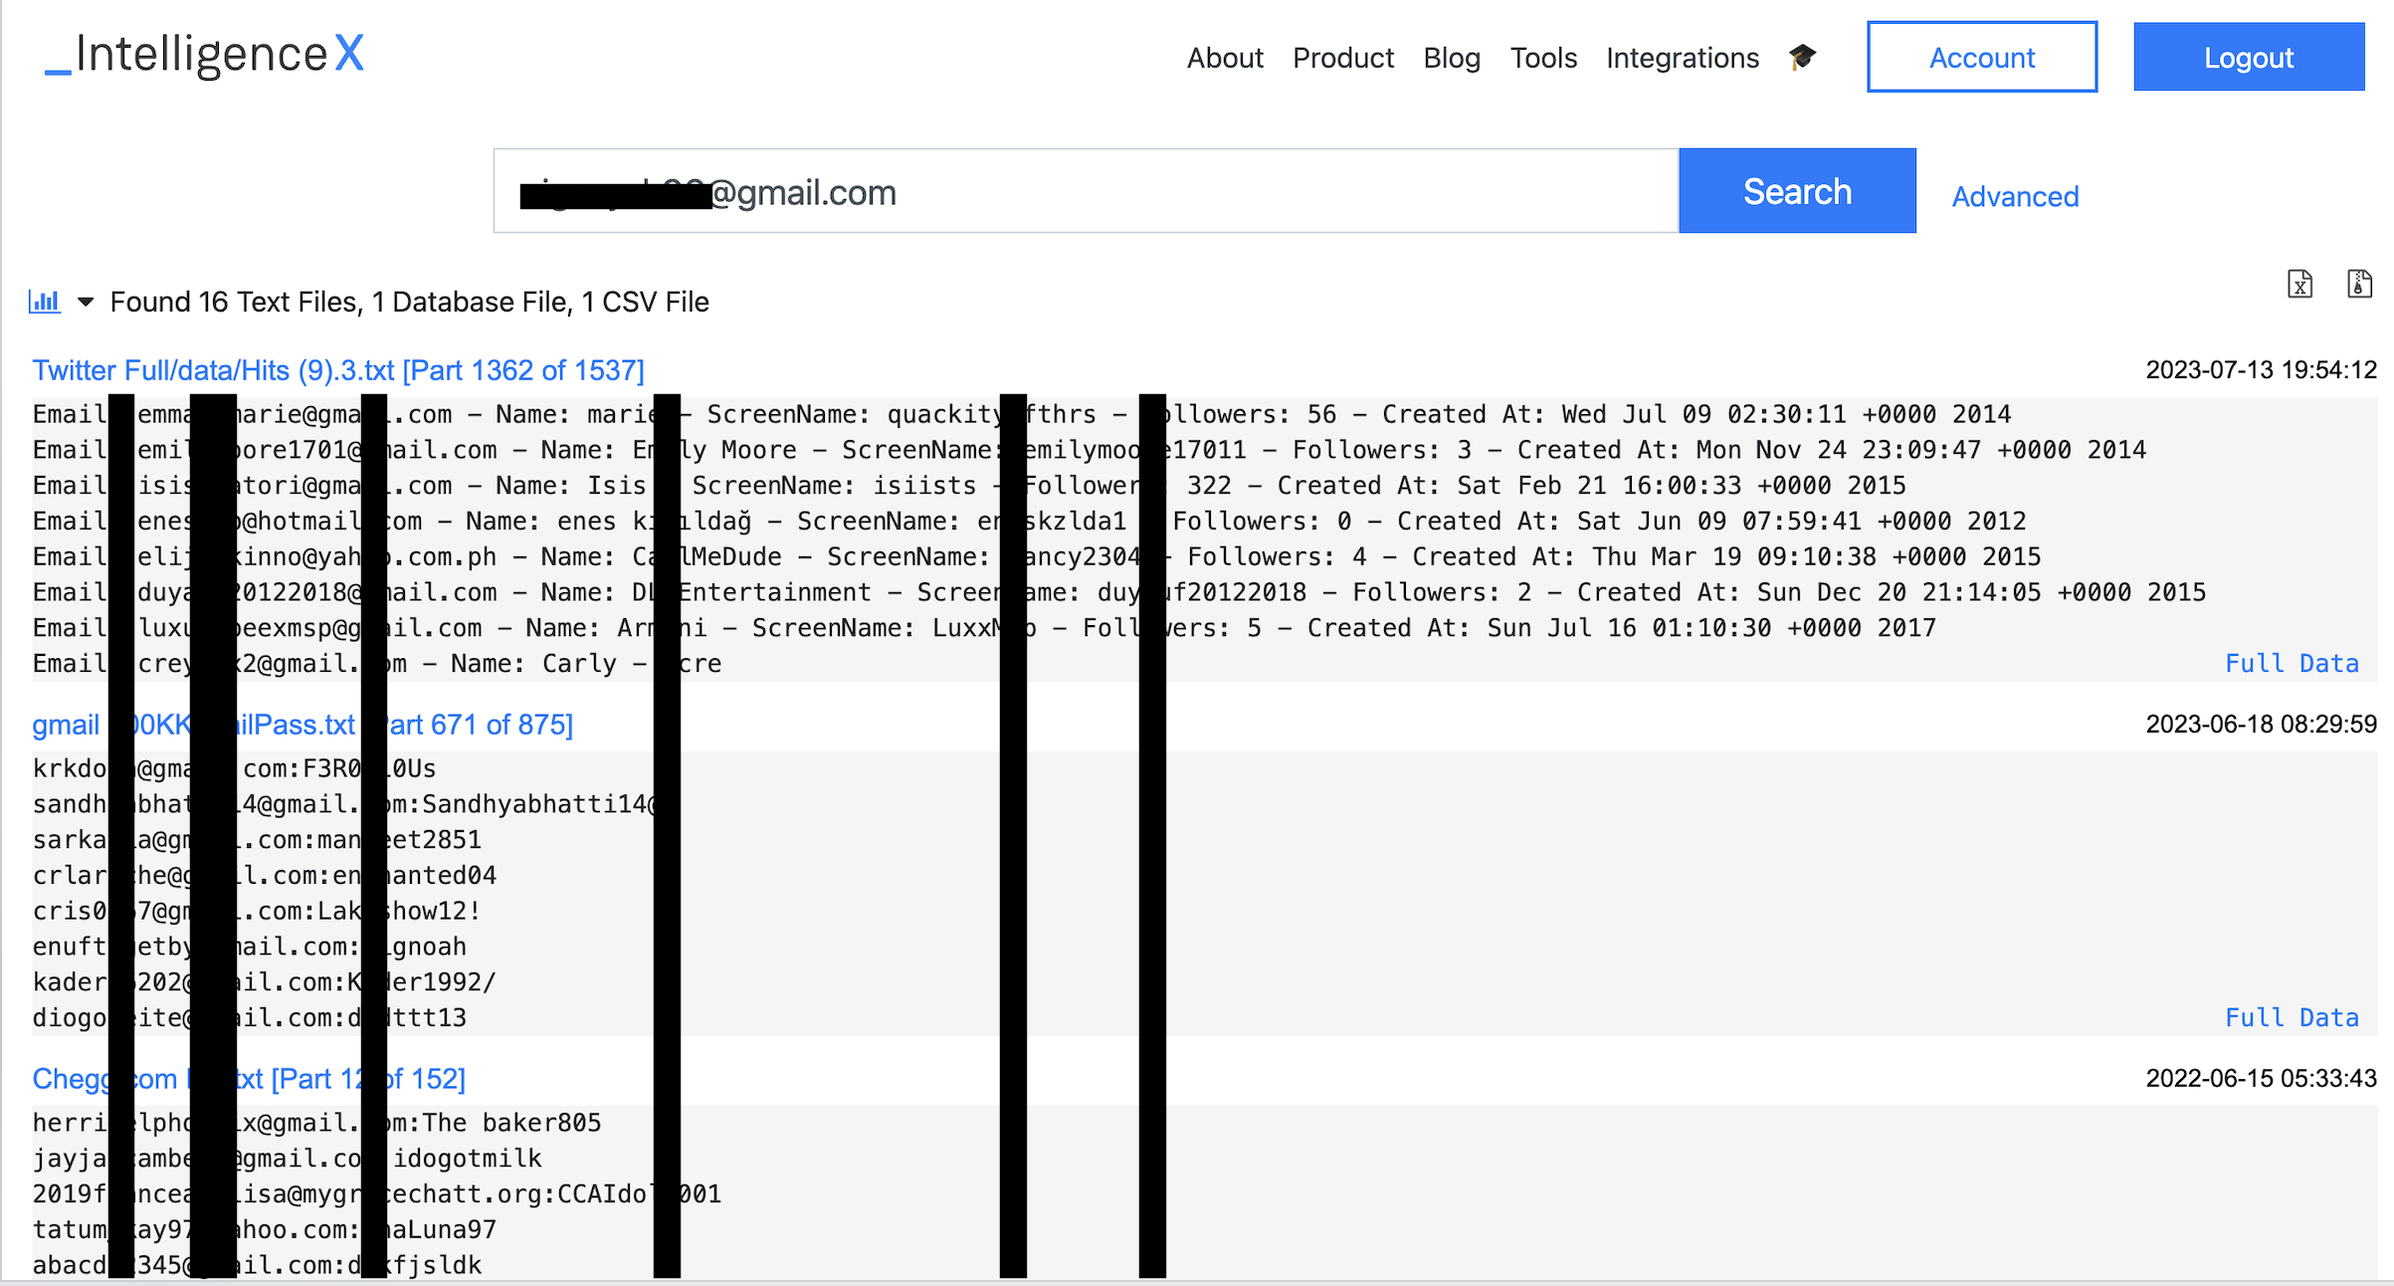
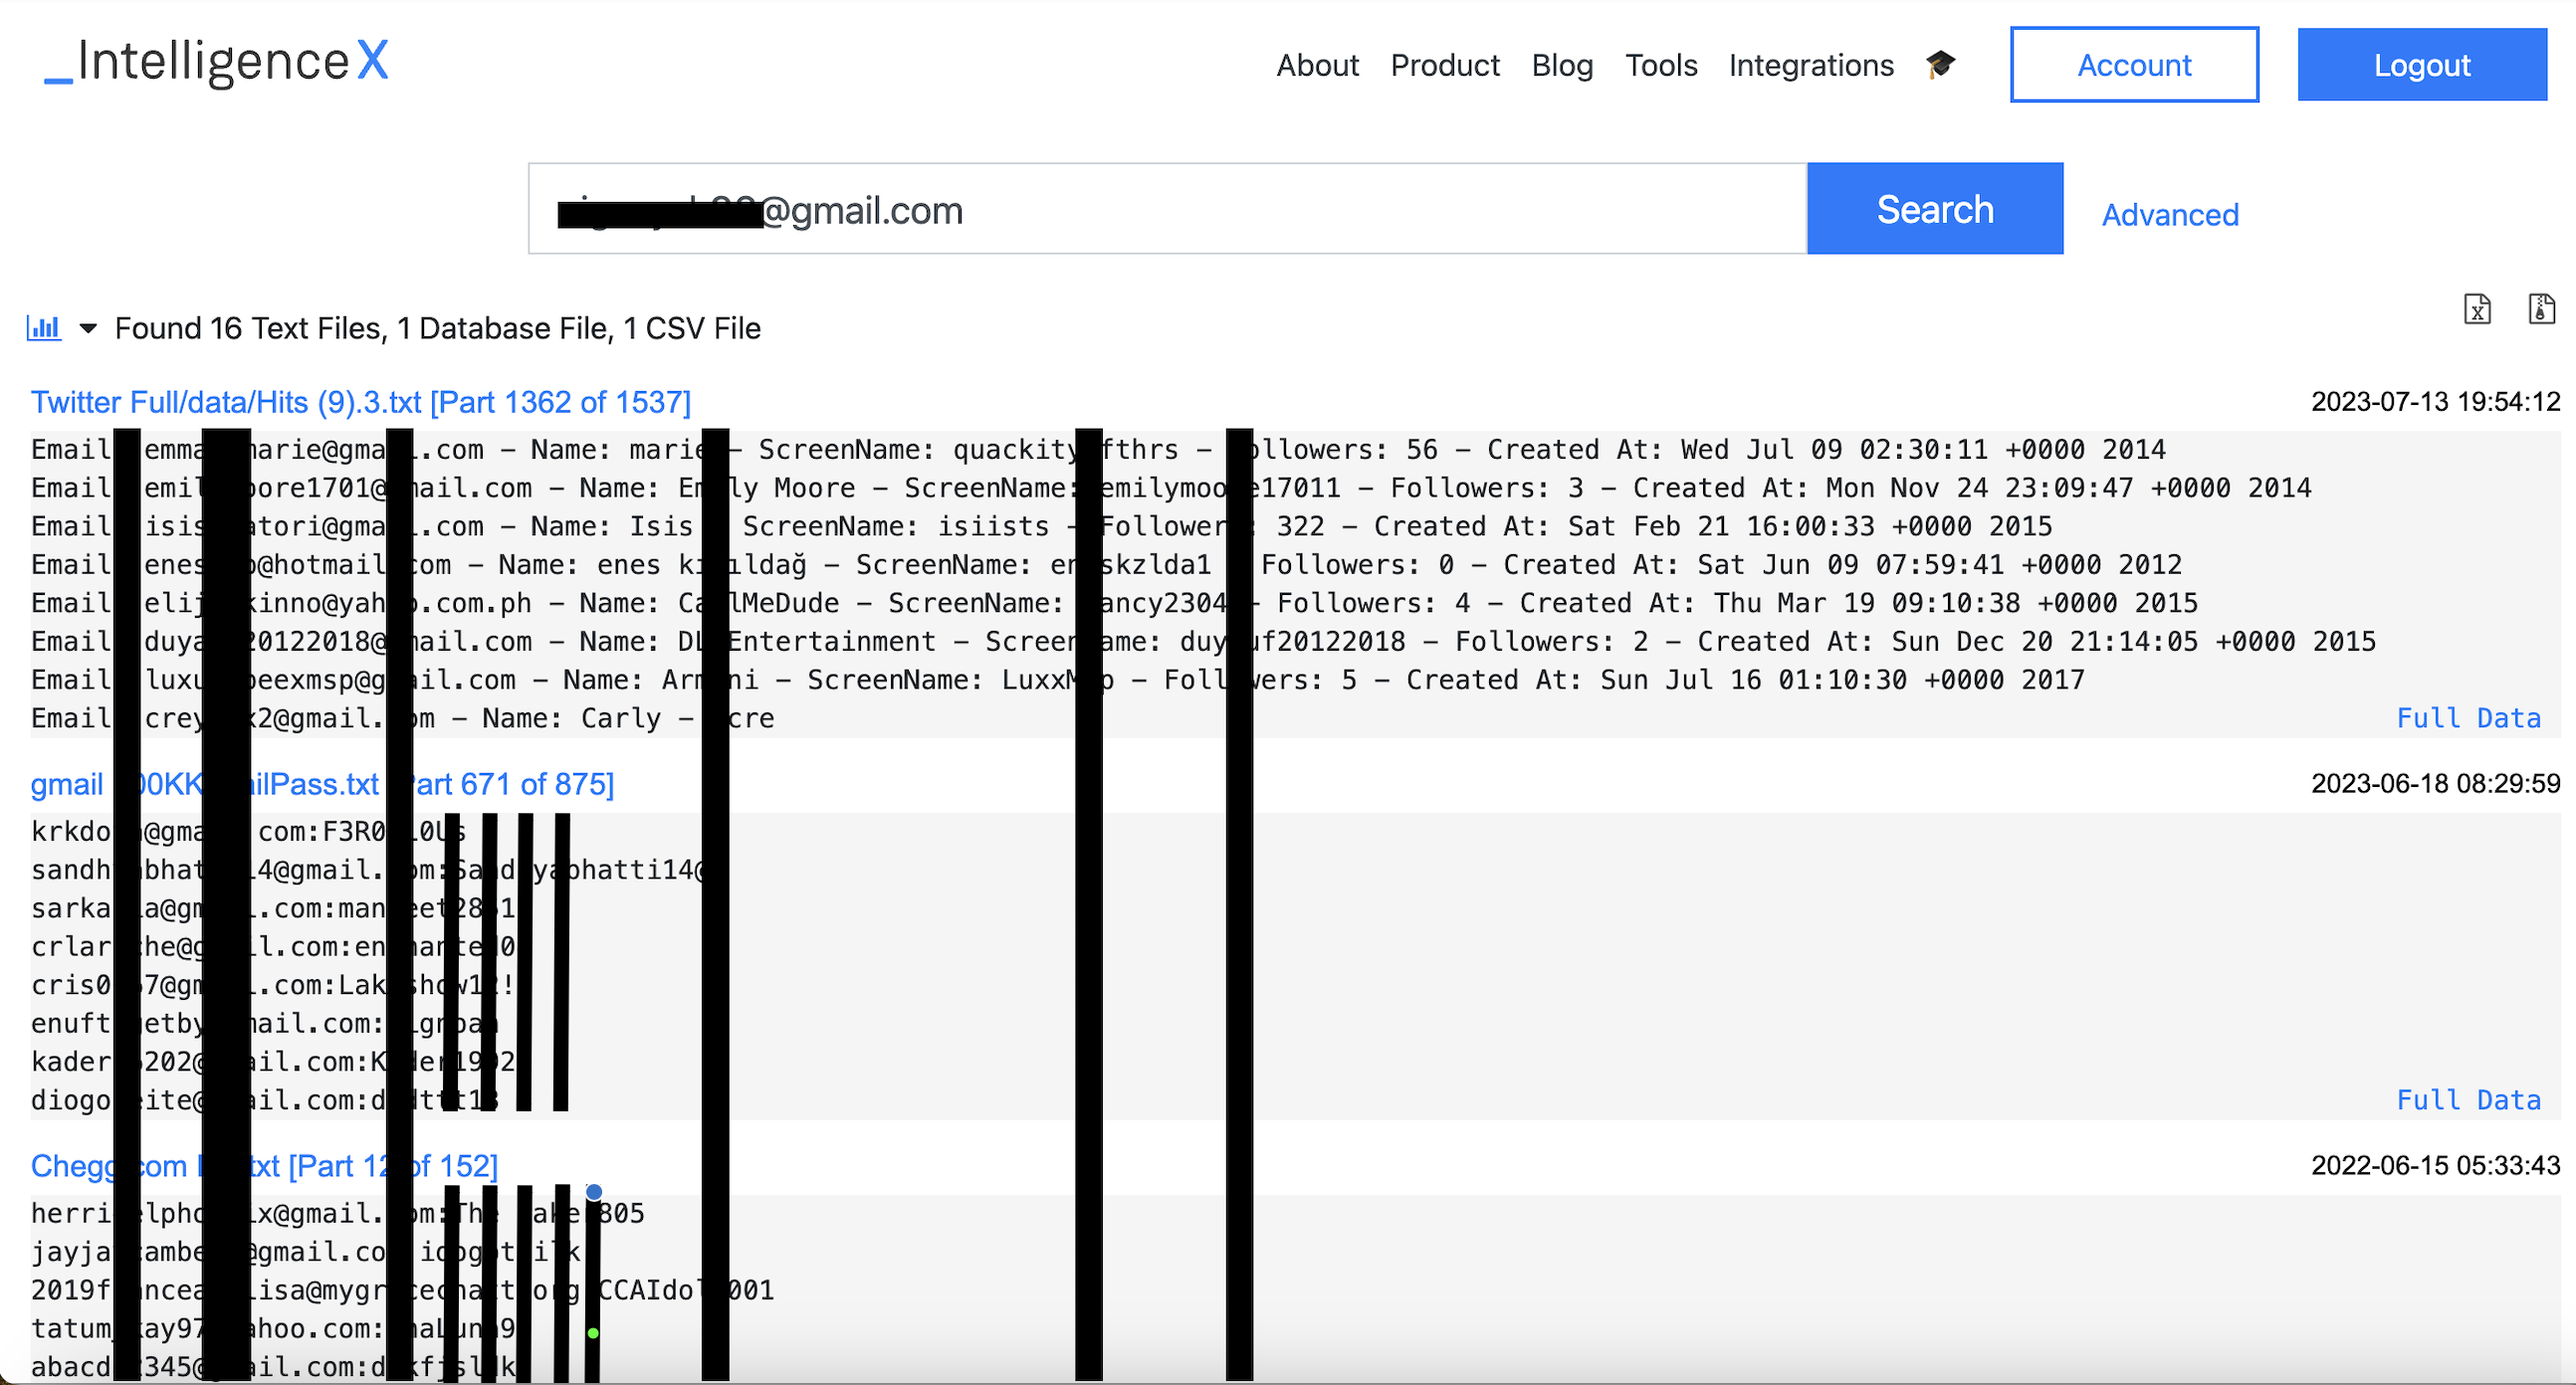
GITBOOK-intelx.io-8: Image more bars

diff --git a/gitbook/tools/intelx.io/README.md b/gitbook/tools/intelx.io/README.md
@@ -14,7 +14,7 @@ Intelx lets you search email addresses (and other inputs) in its database of inf
 
 &#x20;In the example below, Intelx finds a particular email address in a leak of Twitter and Chegg. The twitter one shows info on names, screen names, followers and the creation time. The Chegg database shows email addresses and their passwords.
 
-![](.gitbook/assets/image.png)&#x20;
+&#x20;![](<.gitbook/assets/image (3).png>)
 
 By clicking on the database you can see the whole file and make a search for an email of interest.&#x20;
 
